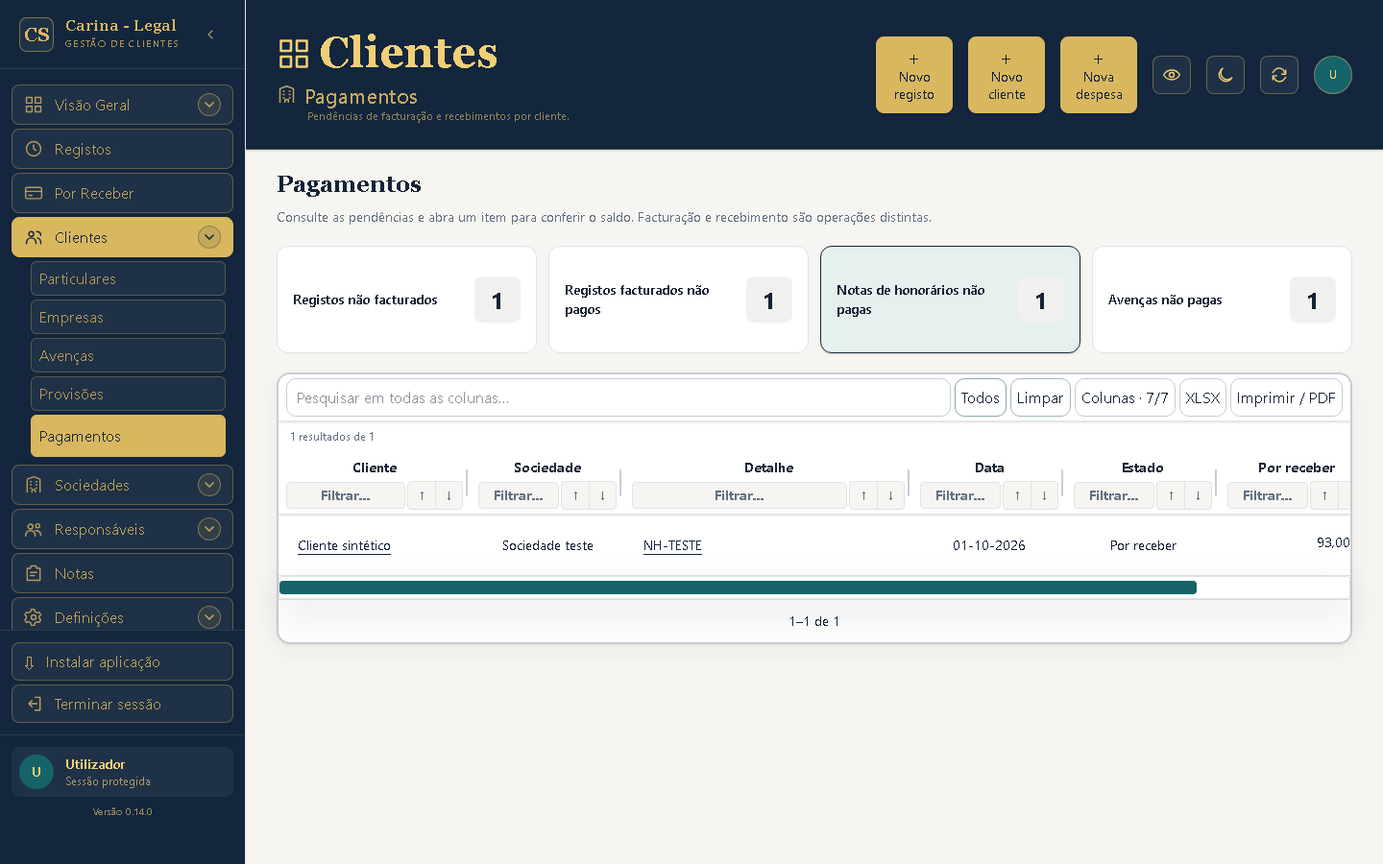
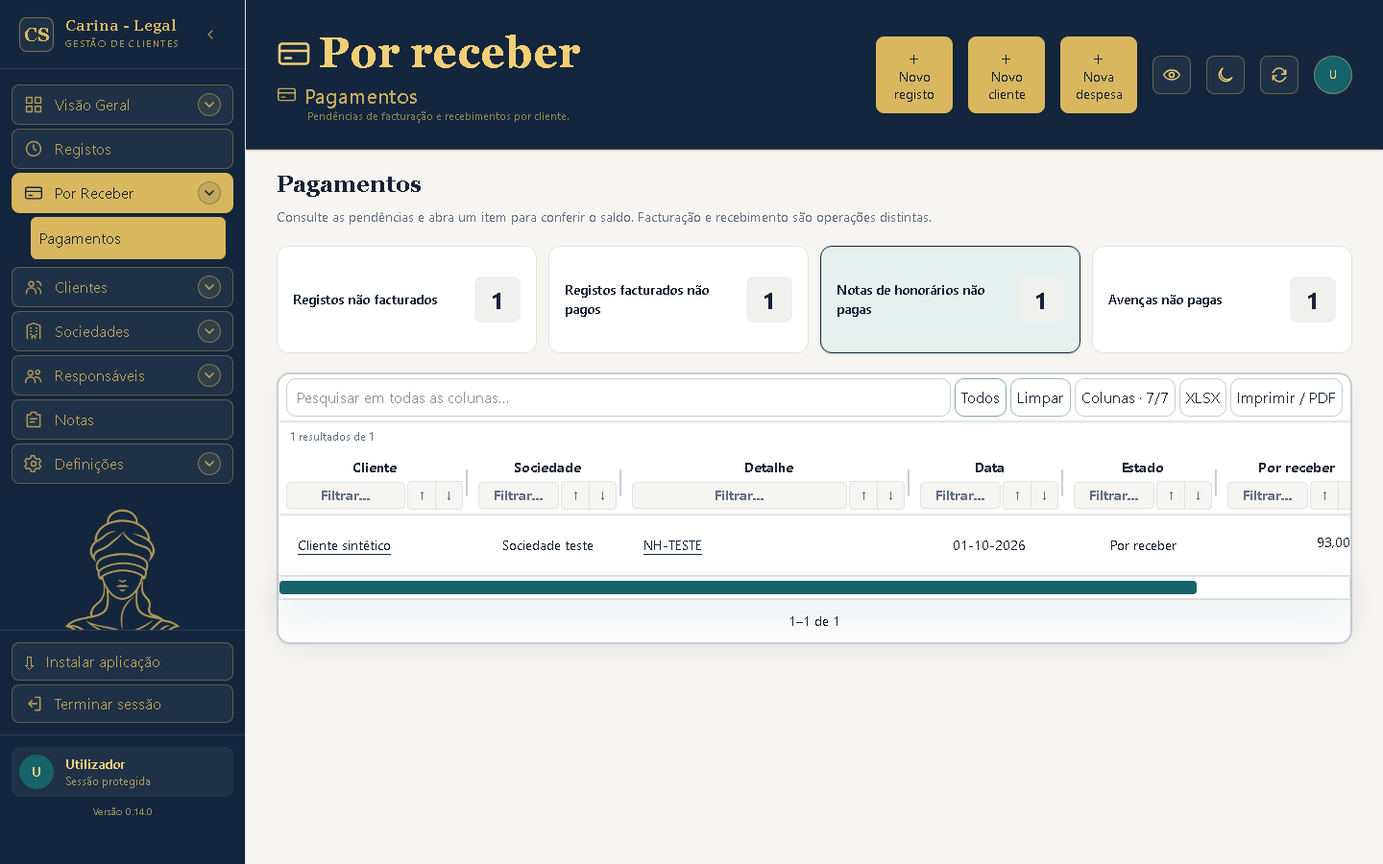
Move Pagamentos under Por receber navigation

Changed region(s): [[0.0, 0.1867, 0.1875, 0.7467], [0.1875, 0.0311, 0.4375, 0.1244]]

diff --git a/src/components/layout/AppShell.tsx b/src/components/layout/AppShell.tsx
@@ -35,7 +35,7 @@ export function AppShell({ activeView, selectedSociety, selectedProfessional, se
   const [refreshing,setRefreshing] = useState(false)
   const [theme,setTheme] = useState<'light'|'dark'>(()=>localStorage.getItem('carina-theme')==='dark'?'dark':'light')
   const [financialValuesVisible,setFinancialValuesVisible] = useState(()=>localStorage.getItem('carina-financial-values')!=='hidden')
-  const [expandedMenu, setExpandedMenu] = useState<ViewId|null>(() => (activeView==='retainers'||activeView==='provisions'||activeView==='payments')?'clients':activeView==='clients'&&selectedClientType&&selectedClientMode==='dashboard'?'overview':activeView==='billing'||activeView==='professionals'||activeView==='clients' ? activeView : activeView==='admin'||activeView==='admin-users'||activeView==='master-data'||activeView==='imports'||activeView==='import-review' ? 'admin' : null)
+  const [expandedMenu, setExpandedMenu] = useState<ViewId|null>(() => (activeView==='payments'||activeView==='debtors')?'debtors':(activeView==='retainers'||activeView==='provisions')?'clients':activeView==='clients'&&selectedClientType&&selectedClientMode==='dashboard'?'overview':activeView==='billing'||activeView==='professionals'||activeView==='clients' ? activeView : activeView==='admin'||activeView==='admin-users'||activeView==='master-data'||activeView==='imports'||activeView==='import-review' ? 'admin' : null)
   const [administrationExpanded,setAdministrationExpanded]=useState(()=>activeView==='admin'||activeView==='admin-users'||activeView==='admin-access-logs'||activeView==='imports'||activeView==='import-review')
   const [billingSocieties,setBillingSocieties]=useState<string[]>([])
   const [professionalNames,setProfessionalNames]=useState<string[]>([])
@@ -46,7 +46,7 @@ export function AppShell({ activeView, selectedSociety, selectedProfessional, se
     : user?.email?.split('@')[0] ?? 'Utilizador'
   useEffect(() => setMobileOpen(false), [activeView])
   useEffect(()=>{
-    const activeMenu=(activeView==='retainers'||activeView==='provisions'||activeView==='payments')?'clients':activeView==='clients'&&selectedClientType&&selectedClientMode==='dashboard'?'overview':activeView==='billing'||activeView==='professionals'||activeView==='clients'
+    const activeMenu=(activeView==='payments'||activeView==='debtors')?'debtors':(activeView==='retainers'||activeView==='provisions')?'clients':activeView==='clients'&&selectedClientType&&selectedClientMode==='dashboard'?'overview':activeView==='billing'||activeView==='professionals'||activeView==='clients'
       ? activeView
       : activeView==='admin'||activeView==='admin-users'||activeView==='admin-access-logs'||activeView==='master-data'||activeView==='imports'||activeView==='import-review'
         ? 'admin'
@@ -59,8 +59,8 @@ export function AppShell({ activeView, selectedSociety, selectedProfessional, se
   useEffect(()=>{const db=supabase;if(!db)return;let active=true;void(async()=>{const [societies,professionals]=await Promise.all([db.from('billing_entities').select('name').eq('active',true),db.from('professionals').select('display_name').eq('active',true)]);if(active){setBillingSocieties(resultRows<{name?:string}>(societies.data).map(item=>item.name).filter((name):name is string=>Boolean(name)).sort((a,b)=>a.localeCompare(b,'pt-PT')));setProfessionalNames(resultRows<{display_name?:string}>(professionals.data).map(item=>item.display_name).filter((name):name is string=>Boolean(name)).sort((a,b)=>a.localeCompare(b,'pt-PT')))}})();return()=>{active=false}},[refreshing])
   const menuLabel=(name:string)=>name.toLocaleLowerCase('pt-PT').replace(/(^|[\s\-/])([\p{L}]+)/gu,(_,separator:string,word:string)=>separator+(separator&&['de','da','do','das','dos','e'].includes(word)?word:word.charAt(0).toLocaleUpperCase('pt-PT')+word.slice(1)))
   const dashboardSelected=activeView==='clients'&&Boolean(selectedClientType)&&selectedClientMode==='dashboard'
-  const currentLabel = dashboardSelected?'Visão Geral':(activeView==='retainers'||activeView==='provisions'||activeView==='payments')?'Clientes':activeView==='master-data'?'Definições':activeView==='admin-users'?'Utilizadores':activeView==='admin-access-logs'?'Registos de acesso':navigation.find(({ id }) => id === activeView)?.label ?? 'Carina - Legal'
-  const isNavigationSelected = (id:ViewId) => (activeView===id&&!(id==='clients'&&dashboardSelected)) || (id==='overview'&&dashboardSelected) || (id==='clients'&&(activeView==='retainers'||activeView==='provisions'||activeView==='payments')) || (id==='admin'&&(activeView==='admin-users'||activeView==='admin-access-logs'||activeView==='master-data'||activeView==='imports'||activeView==='import-review'))
+  const currentLabel = dashboardSelected?'Visão Geral':activeView==='payments'?'Por receber':(activeView==='retainers'||activeView==='provisions')?'Clientes':activeView==='master-data'?'Definições':activeView==='admin-users'?'Utilizadores':activeView==='admin-access-logs'?'Registos de acesso':navigation.find(({ id }) => id === activeView)?.label ?? 'Carina - Legal'
+  const isNavigationSelected = (id:ViewId) => (activeView===id&&!(id==='clients'&&dashboardSelected)) || (id==='overview'&&dashboardSelected) || (id==='debtors'&&activeView==='payments') || (id==='clients'&&(activeView==='retainers'||activeView==='provisions')) || (id==='admin'&&(activeView==='admin-users'||activeView==='admin-access-logs'||activeView==='master-data'||activeView==='imports'||activeView==='import-review'))
   const subLabel = activeView==='payments'?'Pagamentos':activeView==='provisions'?'Provisões':activeView==='retainers'?'Avenças':activeView==='billing'&&selectedSociety?menuLabel(selectedSociety):activeView==='professionals'&&selectedProfessional?professionalName(selectedProfessional):activeView==='clients'&&selectedClientType?({individual:'Particulares',company:'Empresas',mixed:'Mistos'} as const)[selectedClientType]:activeView==='master-data'?(settingsEntity==='billing_entities'?'Sociedades':'Clientes'):activeView==='admin-users'?'Utilizadores':activeView==='admin-access-logs'?'Registos de acesso':activeView==='imports'?'Importações':activeView==='import-review'?'Revisão de importações':null
   const parentLabel = activeView==='master-data'||activeView==='admin'||activeView==='admin-users'||activeView==='admin-access-logs'||activeView==='imports'||activeView==='import-review'?'Definições':currentLabel
   const pageDescription: Partial<Record<ViewId,string>> = {
@@ -92,7 +92,7 @@ export function AppShell({ activeView, selectedSociety, selectedProfessional, se
         ? [{label:'Definições',icon:'admin'},{label:'Administração',icon:'admin'},{label:'Revisão de importações',icon:'audit'}]
         : activeView==='master-data'
           ? [{label:'Definições',icon:'admin'},{label:settingsEntity==='billing_entities'?'Sociedades':'Clientes',icon:settingsEntity==='billing_entities'?'building':'clients'}]
-          : [{label:parentLabel,icon:activeNavigation?.icon??(activeView==='billing'?'building':'overview')},...(subLabel&&subLabel!==parentLabel?[{label:subLabel,icon:activeView==='clients'?'clients':activeView==='professionals'?'people':'building'} as {label:string;icon:IconName}]:[])]
+          : [{label:parentLabel,icon:activeNavigation?.icon??(activeView==='payments'?'payment':activeView==='billing'?'building':'overview')},...(subLabel&&subLabel!==parentLabel?[{label:subLabel,icon:activeView==='payments'?'payment':activeView==='clients'?'clients':activeView==='professionals'?'people':'building'} as {label:string;icon:IconName}]:[])]
   const refreshData=()=>{setRefreshing(true);onRefresh();window.setTimeout(()=>setRefreshing(false),500)}
 
   return (
@@ -108,14 +108,15 @@ export function AppShell({ activeView, selectedSociety, selectedProfessional, se
         </div>
         <nav className="scrollbar-thin flex min-h-0 flex-1 flex-col overflow-y-auto px-3 py-4">
           <ul className="space-y-1">
-            {navigation.filter(item=>item.id!=='admin'||canManageMasterData).map((item) => {const selected=isNavigationSelected(item.id);const hasSubmenu=item.id==='overview'||item.id==='billing'||item.id==='professionals'||item.id==='clients'||item.id==='admin';const expanded=expandedMenu===item.id;return <li key={item.id}><button type="button" title={collapsed ? menuLabel(item.label) : undefined} onClick={() => { if(hasSubmenu)setExpandedMenu(value=>value===item.id?null:item.id);else setExpandedMenu(null);onNavigate(item.id==='admin'&&!canManageSettings?'master-data':item.id) }} aria-current={selected ? 'page' : undefined} aria-expanded={hasSubmenu?expanded:undefined}
+            {navigation.filter(item=>item.id!=='admin'||canManageMasterData).map((item) => {const selected=isNavigationSelected(item.id);const hasSubmenu=item.id==='debtors'||item.id==='overview'||item.id==='billing'||item.id==='professionals'||item.id==='clients'||item.id==='admin';const expanded=expandedMenu===item.id;return <li key={item.id}><button type="button" title={collapsed ? menuLabel(item.label) : undefined} onClick={() => { if(hasSubmenu)setExpandedMenu(value=>value===item.id?null:item.id);else setExpandedMenu(null);onNavigate(item.id==='admin'&&!canManageSettings?'master-data':item.id) }} aria-current={selected ? 'page' : undefined} aria-expanded={hasSubmenu?expanded:undefined}
               className={`flex min-h-10 w-full items-center gap-3 rounded-lg border px-3 py-2 text-left text-sm font-medium transition-colors ${selected ? 'border-accent bg-accent font-semibold text-navigation shadow-sm' : 'border-accent/35 bg-surface/5 text-accent/85 hover:border-accent/60 hover:bg-surface/10 hover:text-accent'}`}>
               <Icon name={item.icon} className={`size-5 shrink-0 ${selected ? 'text-navigation' : 'text-accent/80'}`} />{!collapsed && <><span className="flex-1">{menuLabel(item.label)}</span>{hasSubmenu&&<span className={`grid size-6 shrink-0 place-items-center rounded-full border ${selected?'border-navigation/30 bg-navigation/10':'border-accent/50 bg-accent/10'}`}><Icon name="chevron" className={`size-4 stroke-[2.5] transition-transform ${expanded?'rotate-90':'lg:rotate-90'}`}/></span>}</>}
             </button>
+            {item.id==='debtors'&&!collapsed&&<ul className={`mb-2 ml-4 mt-1 space-y-1 ${expanded?'':'hidden lg:block'}`} aria-label="Por receber"><li><button type="button" onClick={()=>{onNavigate('payments');setMobileOpen(false)}} aria-current={activeView==='payments'?'page':undefined} className={`min-h-11 w-full rounded-md border px-2 py-1 text-left text-xs transition-colors ${activeView==='payments'?'border-accent bg-accent font-semibold text-navigation':'border-accent/30 bg-surface/5 text-accent/80 hover:border-accent/60 hover:bg-surface/10 hover:text-accent'}`}>Pagamentos</button></li></ul>}
             {item.id==='overview'&&!collapsed&&<ul className={`mb-2 ml-4 mt-1 space-y-1 ${expanded?'':'hidden lg:block'}`} aria-label="Dashboards de clientes">{([['individual','Particulares'],['company','Empresas']] as const).map(([type,label])=>{const selectedSub=dashboardSelected&&selectedClientType===type;return <li key={type}><button type="button" onClick={()=>onNavigateClientType(type,'dashboard')} aria-current={selectedSub?'page':undefined} className={`min-h-9 w-full rounded-md border px-2 py-1 text-left text-xs transition-colors ${selectedSub?'border-accent bg-accent font-semibold text-navigation':'border-accent/30 bg-surface/5 text-accent/80 hover:border-accent/60 hover:bg-surface/10 hover:text-accent'}`}>{label}</button></li>})}</ul>}
             {item.id==='billing'&&!collapsed&&<ul className={`mb-2 ml-4 mt-1 space-y-1 ${expanded?'':'hidden lg:block'}`} aria-label="Sociedades">{billingSocieties.map(name=>{const selectedSub=activeView==='billing'&&selectedSociety===name;return <li key={name}><button type="button" onClick={()=>onNavigateSociety(name)} aria-current={selectedSub?'page':undefined} className={`min-h-9 w-full rounded-md border px-2 py-1 text-left text-xs normal-case transition-colors ${selectedSub?'border-accent bg-accent font-semibold text-navigation':'border-accent/30 bg-surface/5 text-accent/80 hover:border-accent/60 hover:bg-surface/10 hover:text-accent'}`}>{menuLabel(name)}</button></li>})}</ul>}
             {item.id==='professionals'&&!collapsed&&<ul className={`mb-2 ml-4 mt-1 space-y-1 ${expanded?'':'hidden lg:block'}`} aria-label="Responsáveis">{professionalNames.map(name=>{const selectedSub=activeView==='professionals'&&selectedProfessional===name;return <li key={name}><button type="button" onClick={()=>onNavigateProfessional(name)} aria-current={selectedSub?'page':undefined} className={`min-h-9 w-full rounded-md border px-2 py-1 text-left text-xs normal-case transition-colors ${selectedSub?'border-accent bg-accent font-semibold text-navigation':'border-accent/30 bg-surface/5 text-accent/80 hover:border-accent/60 hover:bg-surface/10 hover:text-accent'}`}>{professionalName(name)}</button></li>})}</ul>}
-            {item.id==='clients'&&!collapsed&&<ul className={`mb-2 ml-4 mt-1 space-y-1 ${expanded?'':'hidden lg:block'}`} aria-label="Listas de clientes">{([['individual','Particulares'],['company','Empresas']] as const).map(([type,label])=>{const selectedSub=activeView==='clients'&&selectedClientType===type&&selectedClientMode==='list';return <li key={type}><button type="button" onClick={()=>onNavigateClientType(type,'list')} aria-current={selectedSub?'page':undefined} className={`min-h-9 w-full rounded-md border px-2 py-1 text-left text-xs transition-colors ${selectedSub?'border-accent bg-accent font-semibold text-navigation':'border-accent/30 bg-surface/5 text-accent/80 hover:border-accent/60 hover:bg-surface/10 hover:text-accent'}`}>{label}</button></li>})}<li><button type="button" onClick={onNavigateRetainers} aria-current={activeView==='retainers'?'page':undefined} className={`min-h-9 w-full rounded-md border px-2 py-1 text-left text-xs transition-colors ${activeView==='retainers'?'border-accent bg-accent font-semibold text-navigation':'border-accent/30 bg-surface/5 text-accent/80 hover:border-accent/60 hover:bg-surface/10 hover:text-accent'}`}>Avenças</button></li><li><button type="button" onClick={()=>onNavigate('provisions')} aria-current={activeView==='provisions'?'page':undefined} className={`min-h-9 w-full rounded-md border px-2 py-1 text-left text-xs transition-colors ${activeView==='provisions'?'border-accent bg-accent font-semibold text-navigation':'border-accent/30 bg-surface/5 text-accent/80 hover:border-accent/60 hover:bg-surface/10 hover:text-accent'}`}>Provisões</button></li><li><button type="button" onClick={()=>onNavigate('payments')} aria-current={activeView==='payments'?'page':undefined} className={`min-h-11 w-full rounded-md border px-2 py-1 text-left text-xs transition-colors ${activeView==='payments'?'border-accent bg-accent font-semibold text-navigation':'border-accent/30 bg-surface/5 text-accent/80 hover:border-accent/60 hover:bg-surface/10 hover:text-accent'}`}>Pagamentos</button></li></ul>}            {item.id==='admin'&&!collapsed&&<ul className={`mb-2 ml-4 mt-1 space-y-1 ${expanded?'':'hidden lg:block'}`} aria-label="Definições">
+            {item.id==='clients'&&!collapsed&&<ul className={`mb-2 ml-4 mt-1 space-y-1 ${expanded?'':'hidden lg:block'}`} aria-label="Listas de clientes">{([['individual','Particulares'],['company','Empresas']] as const).map(([type,label])=>{const selectedSub=activeView==='clients'&&selectedClientType===type&&selectedClientMode==='list';return <li key={type}><button type="button" onClick={()=>onNavigateClientType(type,'list')} aria-current={selectedSub?'page':undefined} className={`min-h-9 w-full rounded-md border px-2 py-1 text-left text-xs transition-colors ${selectedSub?'border-accent bg-accent font-semibold text-navigation':'border-accent/30 bg-surface/5 text-accent/80 hover:border-accent/60 hover:bg-surface/10 hover:text-accent'}`}>{label}</button></li>})}<li><button type="button" onClick={onNavigateRetainers} aria-current={activeView==='retainers'?'page':undefined} className={`min-h-9 w-full rounded-md border px-2 py-1 text-left text-xs transition-colors ${activeView==='retainers'?'border-accent bg-accent font-semibold text-navigation':'border-accent/30 bg-surface/5 text-accent/80 hover:border-accent/60 hover:bg-surface/10 hover:text-accent'}`}>Avenças</button></li><li><button type="button" onClick={()=>onNavigate('provisions')} aria-current={activeView==='provisions'?'page':undefined} className={`min-h-9 w-full rounded-md border px-2 py-1 text-left text-xs transition-colors ${activeView==='provisions'?'border-accent bg-accent font-semibold text-navigation':'border-accent/30 bg-surface/5 text-accent/80 hover:border-accent/60 hover:bg-surface/10 hover:text-accent'}`}>Provisões</button></li></ul>}            {item.id==='admin'&&!collapsed&&<ul className={`mb-2 ml-4 mt-1 space-y-1 ${expanded?'':'hidden lg:block'}`} aria-label="Definições">
               {canManageSettings&&<li><button type="button" onClick={()=>{setAdministrationExpanded(value=>!value);onNavigate('admin')}} aria-expanded={administrationExpanded} aria-current={(activeView==='admin'||activeView==='admin-users'||activeView==='admin-access-logs'||activeView==='imports'||activeView==='import-review')?'page':undefined} className={`flex min-h-9 w-full items-center rounded-md border px-2 py-1 text-left text-xs transition-colors ${(activeView==='admin'||activeView==='admin-users'||activeView==='admin-access-logs'||activeView==='imports'||activeView==='import-review')?'border-accent bg-accent font-semibold text-navigation':'border-accent/30 bg-surface/5 text-accent/80 hover:border-accent/60 hover:bg-surface/10 hover:text-accent'}`}><span className="flex-1">Administração</span><Icon name="chevron" className={`size-4 transition-transform ${administrationExpanded?'rotate-90':''}`}/></button>
                 <ul className={`ml-4 mt-1 space-y-1 ${administrationExpanded?'':'hidden lg:block'}`} aria-label="Administração"><li><button type="button" onClick={()=>onNavigate('admin-users')} aria-current={activeView==='admin-users'?'page':undefined} className={`min-h-9 w-full rounded-md border px-2 py-1 text-left text-xs ${activeView==='admin-users'?'border-accent bg-accent font-semibold text-primary':'border-accent/25 bg-surface/5 text-accent/75'}`}>Utilizadores</button></li>{role==='owner'&&<li><button type="button" onClick={()=>onNavigate('admin-access-logs')} aria-current={activeView==='admin-access-logs'?'page':undefined} className={`min-h-9 w-full rounded-md border px-2 py-1 text-left text-xs ${activeView==='admin-access-logs'?'border-accent bg-accent font-semibold text-primary':'border-accent/25 bg-surface/5 text-accent/75'}`}>Registos de acesso</button></li>}</ul>
               </li>}

diff --git a/e2e/payments.spec.ts b/e2e/payments.spec.ts
@@ -13,7 +13,25 @@ for(const width of [390,768,1440])for(const dark of [false,true])test('Pagamento
   if(url.includes('/rpc/record_pending_payment')){writes++;rows=rows.filter(row=>row.id!==body.p_id);data={id:'receipt'}}
   await route.fulfill({contentType:'application/json',body:JSON.stringify(data)})
  })
- await page.goto('/?qa-iphone=1&view=payments')
+ await page.goto('/?qa-iphone=1&view=debtors')
+ if(width<1024)await page.getByRole('button',{name:'Abrir navegação',exact:true}).click()
+ const navigation=page.getByRole('complementary',{name:'Navegação principal'})
+ const parent=navigation.getByRole('button',{name:'Por Receber',exact:true})
+ await expect(parent).toHaveAttribute('aria-expanded','true')
+ const submenu=navigation.getByRole('list',{name:'Por receber',exact:true})
+ const payments=submenu.getByRole('button',{name:'Pagamentos',exact:true})
+ await expect(payments).toBeVisible()
+ await expect(navigation.getByRole('list',{name:'Listas de clientes'}).getByRole('button',{name:'Pagamentos',exact:true})).toHaveCount(0)
+ await payments.focus();await page.keyboard.press('Enter')
+ await expect(page.getByRole('heading',{name:'Pagamentos',exact:true})).toBeVisible()
+ await expect(page.getByRole('navigation',{name:'Localização'})).toContainText('Por receber')
+ if(width<1024){
+  await expect(page.getByRole('button',{name:'Fechar navegação',exact:true})).toHaveCount(0)
+  await page.getByRole('button',{name:'Abrir navegação',exact:true}).click()
+ }
+ await expect(parent).toHaveAttribute('aria-current','page')
+ await expect(payments).toHaveAttribute('aria-current','page')
+ if(width<1024){await payments.click();await expect(page.getByRole('button',{name:'Fechar navegação',exact:true})).toHaveCount(0)}
  if(width===390)await page.addStyleTag({content:':root{--safe-top:24px;--safe-bottom:34px;--safe-left:0px;--safe-right:0px}'})
  await expect(page.getByRole('heading',{name:'Pagamentos',exact:true})).toBeVisible()
  await page.getByRole('button',{name:/Notas de honorários não pagas/}).click()

diff --git a/docs/payments-workspace.md b/docs/payments-workspace.md
@@ -4,7 +4,7 @@ Estado: implementação isolada, sem aplicação remota, sem deploy e sem pagame
 
 ## Comportamento
 
-- Clientes → Pagamentos contém os quatro botões pedidos, com contagens calculadas do mesmo universo que alimenta a tabela. Todos/Limpar e cascatas usam StandardDataTable. Cliente e título abrem o detalhe com um toque.
+- Por receber → Pagamentos contém os quatro botões pedidos, com contagens calculadas do mesmo universo que alimenta a tabela. Todos/Limpar e cascatas usam StandardDataTable. Cliente e título abrem o detalhe com um toque.
 - Registos não facturados abrem EditWorkEntryModal em modo de facturação: Pago e o estado Pago ficam indisponíveis. Guardar a factura e registar recebimento são passos separados.
 - Avenças pendentes reutilizam RetainerChargeDialog em modo de facturação, com data explícita, optimismo por token e auditoria. Nunca se preenchem datas de factura automaticamente.
 - Registos facturados e prestações são liquidados integralmente. Notas normais aceitam parcial/total. Preço fixo aceita apenas a liquidação integral do trabalho facturado e conserva as restrições de papel owner/admin/billing.
@@ -109,3 +109,4 @@ Restam antes de aplicar: comparação do esquema remoto instalado, autorização
 - Cobertura integrada: emissão real com provisão; facturação separada; recebimento parcial/replay; chaves iguais/diferentes concorrentes; revisão versus recebimento; estorno antes/depois de recebimento; libertação legítima de registos após anulação sem recebimentos; registo individual via RPC antiga real; avença integral/idempotente/auditada; preço fixo; owner/admin/operator/billing/professional/viewer/auditor, PIN pendente, pertença inactiva, visibilidade financeira, concessões por cliente/processo/equipa/validade e anon.
 - O gate local de SQL/RLS/concorrência está agora cumprido para estes cenários. Continuam fora do ensaio a validação JWT via HTTP/PostgREST, dados reais históricos/volume, Safari físico e smoke do destino após instalação autorizada. Não confundir estes limites com a anterior ausência de ensaio integrado, entretanto resolvida.
 - O container QA fica preservado para continuação, sem rede/portas; contém apenas fixtures sintéticas. Não há comandos de teste pendentes. O push recusado não foi repetido; sem PR/CI remota, migration remota ou deploy.
+- Validação do ajuste de navegação: 6 E2E aprovados em390/768/1440 claro/escuro, teclado, selecção, fecho móvel e ausência em Clientes. pnpm check:299 unitários/25 SQL, lint, tipos, segurança e build aprovados. Screenshots sintéticos actualizados.

diff --git a/HANDOVER.md b/HANDOVER.md
@@ -1,3 +1,13 @@
+## 2026-10-06 - PR88 e ajuste final de navegação, publicação pendente
+
+- Push manual confirmado em 5e8d308; PR88 draft https://github.com/dabranches-collab/legal-carina/pull/88. CI37473441130 e secret scan37473441102 aprovados nesse commit.
+- Pedido posterior de Diogo: Pagamentos passa para Por receber > Pagamentos, antes da publicação. Migration e quatro categorias mantidas; novo commit local exige novo push manual e CI.
+- Autorização específica da migration recebida às13:45UTC, incluindo ausência de anulação de recebimentos nesta release. Não aplicada: aguardar revisão/CI do ajuste de navegação. Nenhum pagamento real, merge ou deploy executado.
+- Backup físico Supabase visível de06-10-2026 05:45:26UTC. Migration apenas SQL, sem alterar Storage; ausência de cópia independente de ficheiros não é risco adicional desta alteração.
+- Preflight13:47UTC: histórico remoto até20260928165929;11 dependências financeiras/permissões e colunas/policies das8 tabelas coincidem com QA alinhado; nomes candidatos livres. Continuidade sem órfãos; utilizadores/permissões preservados. Advisors sem ERROR; avisos existentes sobre funções SECURITY DEFINER e protecção de passwords.
+- Produção confirmada0.13.3; Cloudflare100% version7dc8bc64-d133-4fd5-868a-dde7f88e21e1 desde04-10-2026 23:30:58UTC (rollback). Sessão autenticada abriu em leitura. Configuração pública de produção verificada; dry-run e3PWA aprovados antes do ajuste.
+- Segunda fase, só depois da publicação: anulação auditada com confirmação, original preservado e saldo restaurado; NÃO exigir motivo (correcção explícita de Diogo). Nenhuma anulação real ou migration de estorno autorizada nesta etapa.
+
 ## 2026-10-06 - Integração Pagamentos no HP concluída localmente
 
 - Docker acessível como diogo; container carina-payments-qa-20261006 isolado e preservado, PostgreSQL 17.6. Sem mudanças de ACL/grupos/serviços do host.

diff --git a/PROJECT_STATE.md b/PROJECT_STATE.md
@@ -1,3 +1,13 @@
+## 2026-10-06 - PR88 e ajuste final de navegação, publicação pendente
+
+- Push manual confirmado em 5e8d308; PR88 draft https://github.com/dabranches-collab/legal-carina/pull/88. CI37473441130 e secret scan37473441102 aprovados nesse commit.
+- Pedido posterior de Diogo: Pagamentos passa para Por receber > Pagamentos, antes da publicação. Migration e quatro categorias mantidas; novo commit local exige novo push manual e CI.
+- Autorização específica da migration recebida às13:45UTC, incluindo ausência de anulação de recebimentos nesta release. Não aplicada: aguardar revisão/CI do ajuste de navegação. Nenhum pagamento real, merge ou deploy executado.
+- Backup físico Supabase visível de06-10-2026 05:45:26UTC. Migration apenas SQL, sem alterar Storage; ausência de cópia independente de ficheiros não é risco adicional desta alteração.
+- Preflight13:47UTC: histórico remoto até20260928165929;11 dependências financeiras/permissões e colunas/policies das8 tabelas coincidem com QA alinhado; nomes candidatos livres. Continuidade sem órfãos; utilizadores/permissões preservados. Advisors sem ERROR; avisos existentes sobre funções SECURITY DEFINER e protecção de passwords.
+- Produção confirmada0.13.3; Cloudflare100% version7dc8bc64-d133-4fd5-868a-dde7f88e21e1 desde04-10-2026 23:30:58UTC (rollback). Sessão autenticada abriu em leitura. Configuração pública de produção verificada; dry-run e3PWA aprovados antes do ajuste.
+- Segunda fase, só depois da publicação: anulação auditada com confirmação, original preservado e saldo restaurado; NÃO exigir motivo (correcção explícita de Diogo). Nenhuma anulação real ou migration de estorno autorizada nesta etapa.
+
 ## 2026-10-06 - Integração Pagamentos no HP concluída localmente
 
 - Docker acessível como diogo; container carina-payments-qa-20261006 isolado e preservado, PostgreSQL 17.6. Sem mudanças de ACL/grupos/serviços do host.
